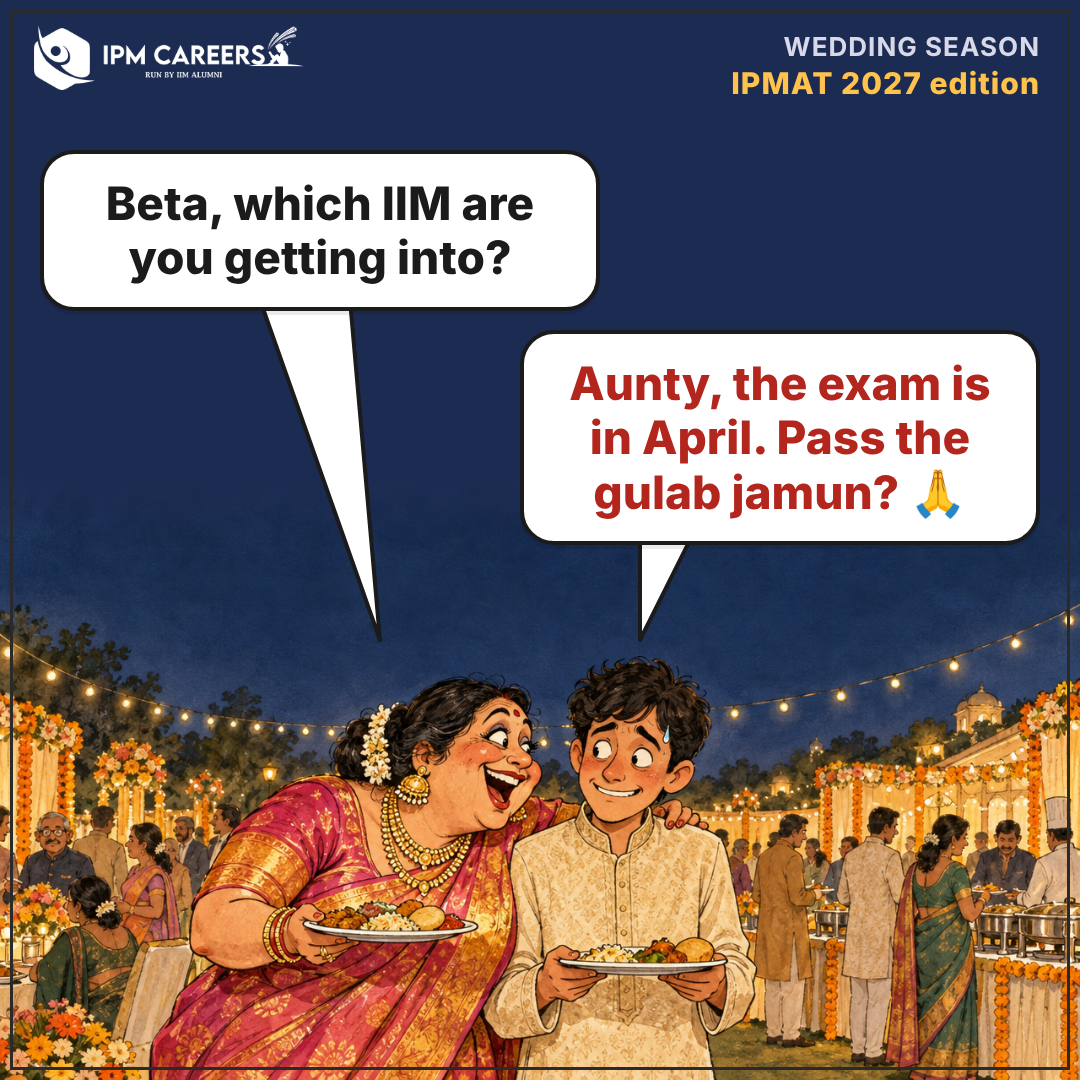
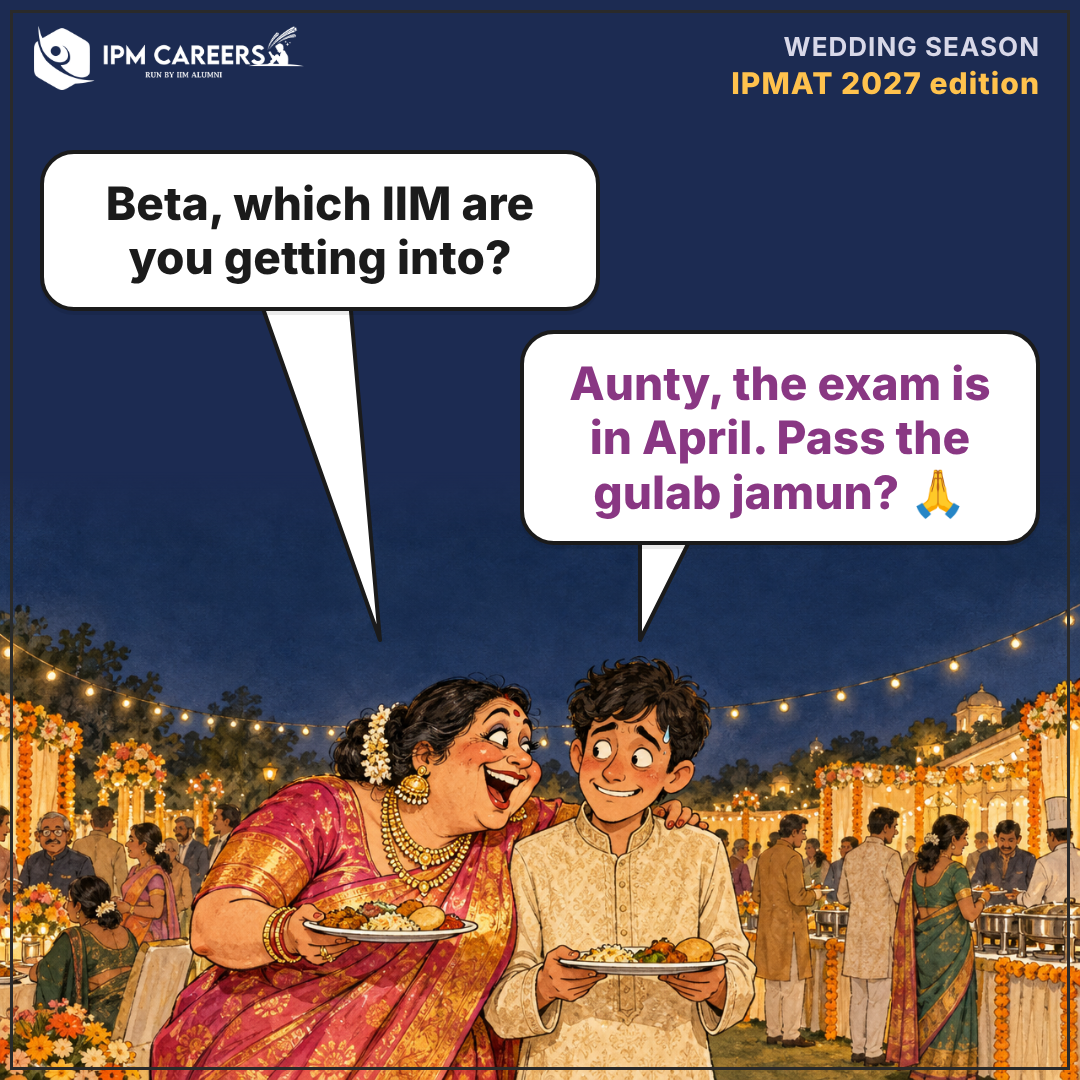
Cartoons: brand purple text
Claude-Session: https://claude.ai/code/session_017bG5V3fXiwQrWWNcUHjzq8

Changed region(s): [[0.5194, 0.3361, 0.9167, 0.4889]]

diff --git a/templates/cards/cartoon.html b/templates/cards/cartoon.html
@@ -9,10 +9,10 @@ html,body{width:1080px;height:1080px;overflow:hidden;background:#fff}
 .art{position:absolute;left:0;bottom:0;width:1080px;height:608px;-webkit-mask-image:linear-gradient(transparent 0,#000 70px)}
 .frame{position:absolute;inset:10px;border:3px solid #2a2a2a;pointer-events:none}
 .b{position:absolute;background:#fff;border:4px solid #1b1b1b;border-radius:34px;padding:22px 34px;font:800 46px/1.18 Inter;color:#1b1b1b;text-align:center;box-shadow:0 4px 0 rgba(0,0,0,.08)}
-.b.red{color:#B3261E}
+.b.red{color:#893783}
 .tail{position:absolute;width:0;height:0}
 .hdr{position:absolute;right:40px;top:30px;text-align:right;font:700 26px Inter;color:#555;line-height:1.3;letter-spacing:.04em}
-.hdr b{display:block;color:#B3261E;font-weight:800;font-size:30px}
+.hdr b{display:block;color:#893783;font-weight:800;font-size:30px}
 .sig{position:absolute;right:30px;bottom:28px;background:rgba(255,255,255,.82);padding:10px 20px 12px;border-radius:12px;text-align:right}
 .sig .n{font:italic 700 46px FrauncesI;color:#B3261E}
 .sig .s{font:600 22px Inter;color:#333;margin-top:2px}
